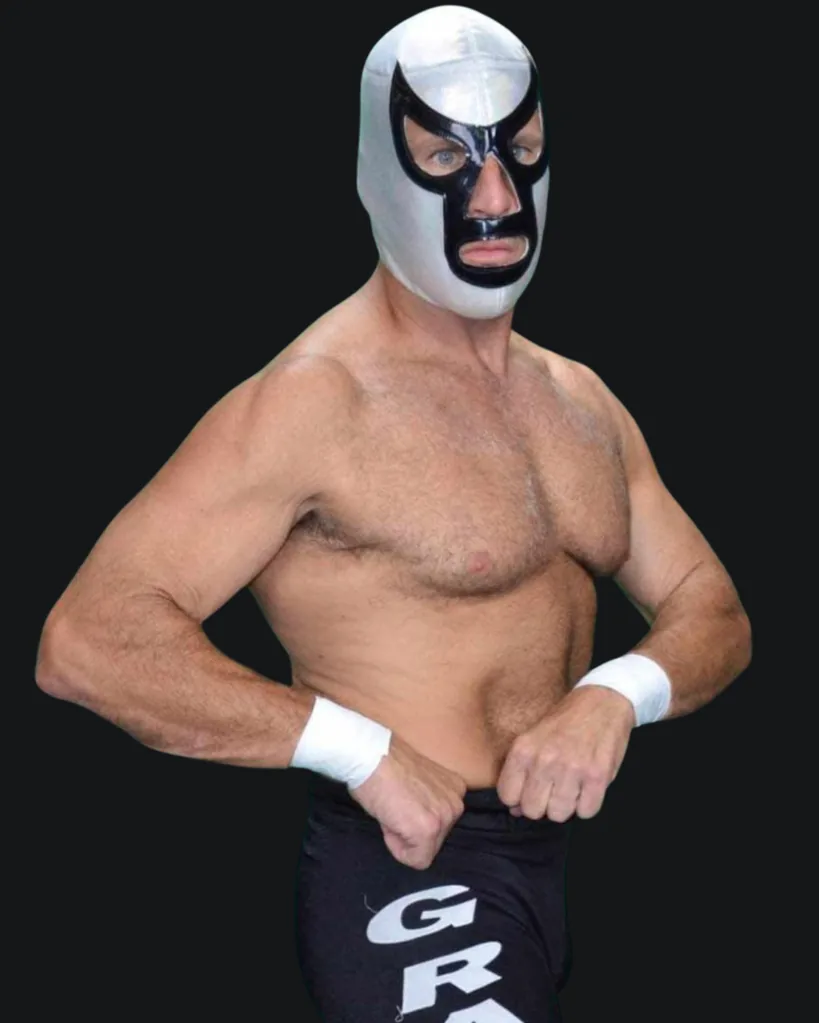
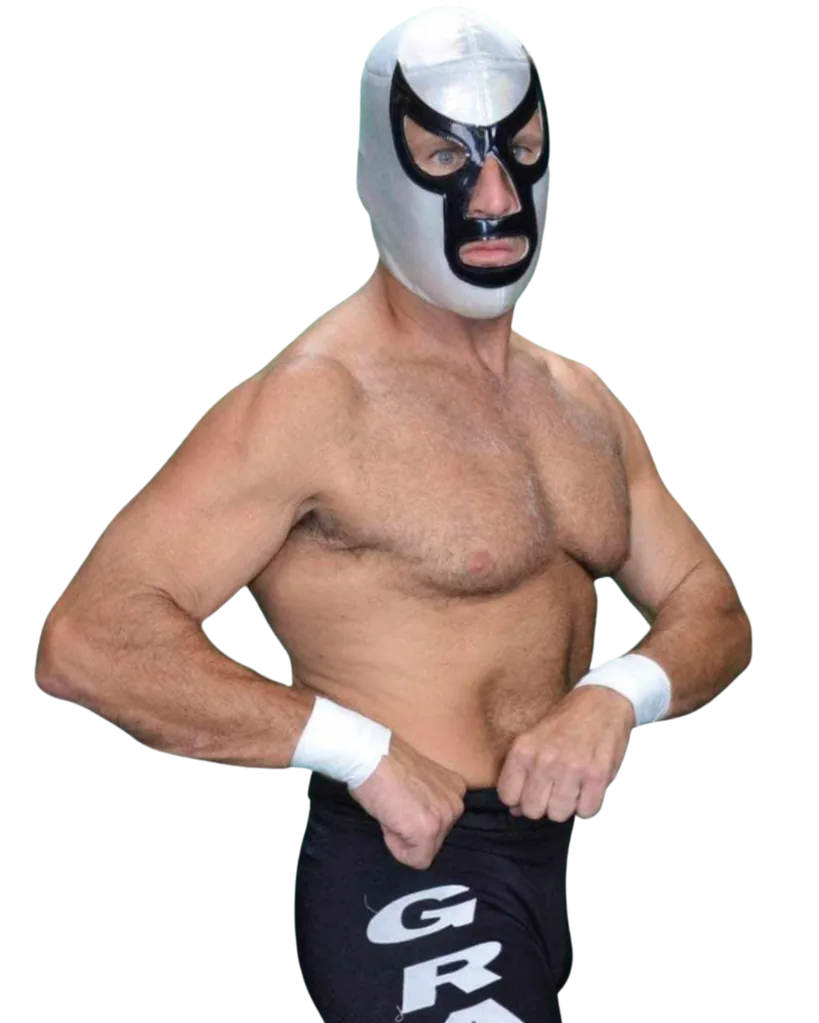
v2.2.0 — Double K to spot 4 + default start, new Grappler III photo

diff --git a/faw/assets/js/main.js b/faw/assets/js/main.js
@@ -147,8 +147,8 @@
   var WRESTLERS = (window.FAW_DATA && window.FAW_DATA.roster) ? window.FAW_DATA.roster : [
     { name: 'Phantom', initials: 'PH', tags: [], color: '#a855f7', glow: 'rgba(168,85,247,0.28)', img: 'img/phantom.webp', bio: 'A masked competitor who defies gravity and disappears into the lights.' },
     { name: 'Mustang Mike', initials: 'MM', tags: [], color: '#8b0a1e', glow: 'rgba(139,10,30,0.3)', img: 'img/mustang-mike.webp', bio: 'A crowd-favorite competitor with a motor that never quits.' },
-    { name: 'Double K', initials: 'DK', tags: ['champion'], color: '#f5c542', glow: 'rgba(245,197,66,0.3)', img: 'img/double-k.webp', bio: 'The FAW Heavyweight Champion. A powerhouse competitor who claimed the gold at the Crucible tournament.', champion: 'FAW Heavyweight Champion' },
     { name: 'Big Kon', initials: 'BK', tags: [], color: '#dc2626', glow: 'rgba(220,38,38,0.3)', img: 'img/big-kon.webp', bio: 'A dominant force in the FAW ring.' },
+    { name: 'Double K', initials: 'DK', tags: ['champion'], color: '#f5c542', glow: 'rgba(245,197,66,0.3)', img: 'img/double-k.webp', bio: 'The FAW Heavyweight Champion. A powerhouse competitor who claimed the gold at the Crucible tournament.', champion: 'FAW Heavyweight Champion' },
     { name: 'Purple Haze', initials: 'PH', tags: [], color: '#8b5cf6', glow: 'rgba(139,92,246,0.3)', img: 'img/purple-haze.webp', bio: 'An enigmatic competitor who brings the smoke.' },
     { name: 'Beautiful Bobby', initials: 'BB', tags: [], color: '#ec4899', glow: 'rgba(236,72,153,0.28)', img: 'img/beautiful-bobby.webp', bio: 'Pure style and pure skill in the ring.' },
     { name: 'Grappler III', initials: 'G3', tags: [], color: '#0891b2', glow: 'rgba(8,145,178,0.28)', img: 'img/grappler-iii.webp', bio: 'Third generation grappler with technical pedigree.' },
@@ -165,7 +165,7 @@
 
   var cfStage = $('coverflowStage');
   var cfCounter = $('cfCounter');
-  var cfActive = 2; /* start at Kris Keith (3rd position) */
+  var cfActive = 3; /* start at Double K (4th position) */
   var cfList = WRESTLERS.slice();
 
   var CF_BG = (window.FAW_DATA && window.FAW_DATA.themeUri) ? window.FAW_DATA.themeUri + '/assets/img/wrestler-bg.webp' : 'assets/img/wrestler-bg.webp';

diff --git a/faw/functions.php b/faw/functions.php
@@ -9,7 +9,7 @@
 
 if ( ! defined( 'ABSPATH' ) ) exit;
 
-define( 'FAW_VERSION', '2.1.1' );
+define( 'FAW_VERSION', '2.2.0' );
 define( 'FAW_DIR', get_stylesheet_directory() );
 define( 'FAW_URI', get_stylesheet_directory_uri() );
 
@@ -281,8 +281,8 @@ function faw_get_roster() {
     $roster = array(
         array( 'name' => 'Phantom', 'initials' => 'PH', 'tags' => array(), 'color' => '#a855f7', 'glow' => 'rgba(168,85,247,0.28)', 'img' => FAW_URI . '/assets/img/phantom.webp', 'bio' => 'A masked competitor who defies gravity and disappears into the lights.' ),
         array( 'name' => 'Mustang Mike', 'initials' => 'MM', 'tags' => array(), 'color' => '#8b0a1e', 'glow' => 'rgba(139,10,30,0.3)', 'img' => FAW_URI . '/assets/img/mustang-mike.webp', 'bio' => 'A crowd-favorite competitor with a motor that never quits.' ),
-        array( 'name' => 'Double K', 'initials' => 'DK', 'tags' => array( 'champion' ), 'color' => '#f5c542', 'glow' => 'rgba(245,197,66,0.3)', 'img' => FAW_URI . '/assets/img/double-k.webp', 'bio' => 'The FAW Heavyweight Champion. A powerhouse competitor who claimed the gold at the Crucible tournament.', 'champion' => 'FAW Heavyweight Champion' ),
         array( 'name' => 'Big Kon', 'initials' => 'BK', 'tags' => array(), 'color' => '#dc2626', 'glow' => 'rgba(220,38,38,0.3)', 'img' => FAW_URI . '/assets/img/big-kon.webp', 'bio' => 'A dominant force in the FAW ring.' ),
+        array( 'name' => 'Double K', 'initials' => 'DK', 'tags' => array( 'champion' ), 'color' => '#f5c542', 'glow' => 'rgba(245,197,66,0.3)', 'img' => FAW_URI . '/assets/img/double-k.webp', 'bio' => 'The FAW Heavyweight Champion. A powerhouse competitor who claimed the gold at the Crucible tournament.', 'champion' => 'FAW Heavyweight Champion' ),
         array( 'name' => 'Purple Haze', 'initials' => 'PH', 'tags' => array(), 'color' => '#8b5cf6', 'glow' => 'rgba(139,92,246,0.3)', 'img' => FAW_URI . '/assets/img/purple-haze.webp', 'bio' => 'An enigmatic competitor who brings the smoke.' ),
         array( 'name' => 'Beautiful Bobby', 'initials' => 'BB', 'tags' => array(), 'color' => '#ec4899', 'glow' => 'rgba(236,72,153,0.28)', 'img' => FAW_URI . '/assets/img/beautiful-bobby.webp', 'bio' => 'Pure style and pure skill in the ring.' ),
         array( 'name' => 'Grappler III', 'initials' => 'G3', 'tags' => array(), 'color' => '#0891b2', 'glow' => 'rgba(8,145,178,0.28)', 'img' => FAW_URI . '/assets/img/grappler-iii.webp', 'bio' => 'Third generation grappler with technical pedigree.' ),

diff --git a/faw/front-page.php b/faw/front-page.php
@@ -134,7 +134,7 @@ get_header();
         <div class="coverflow__stage" id="coverflowStage"></div>
         <button class="coverflow__arrow coverflow__arrow--prev" id="cfPrev" aria-label="Previous wrestler">‹</button>
         <button class="coverflow__arrow coverflow__arrow--next" id="cfNext" aria-label="Next wrestler">›</button>
-        <div class="coverflow__counter" id="cfCounter">03 / <?php echo count( $roster ); ?></div>
+        <div class="coverflow__counter" id="cfCounter">04 / <?php echo count( $roster ); ?></div>
     </div>
     <div class="coverflow__filters" id="cfFilters">
         <button class="chip is-active" data-filter="all">All Roster</button>
